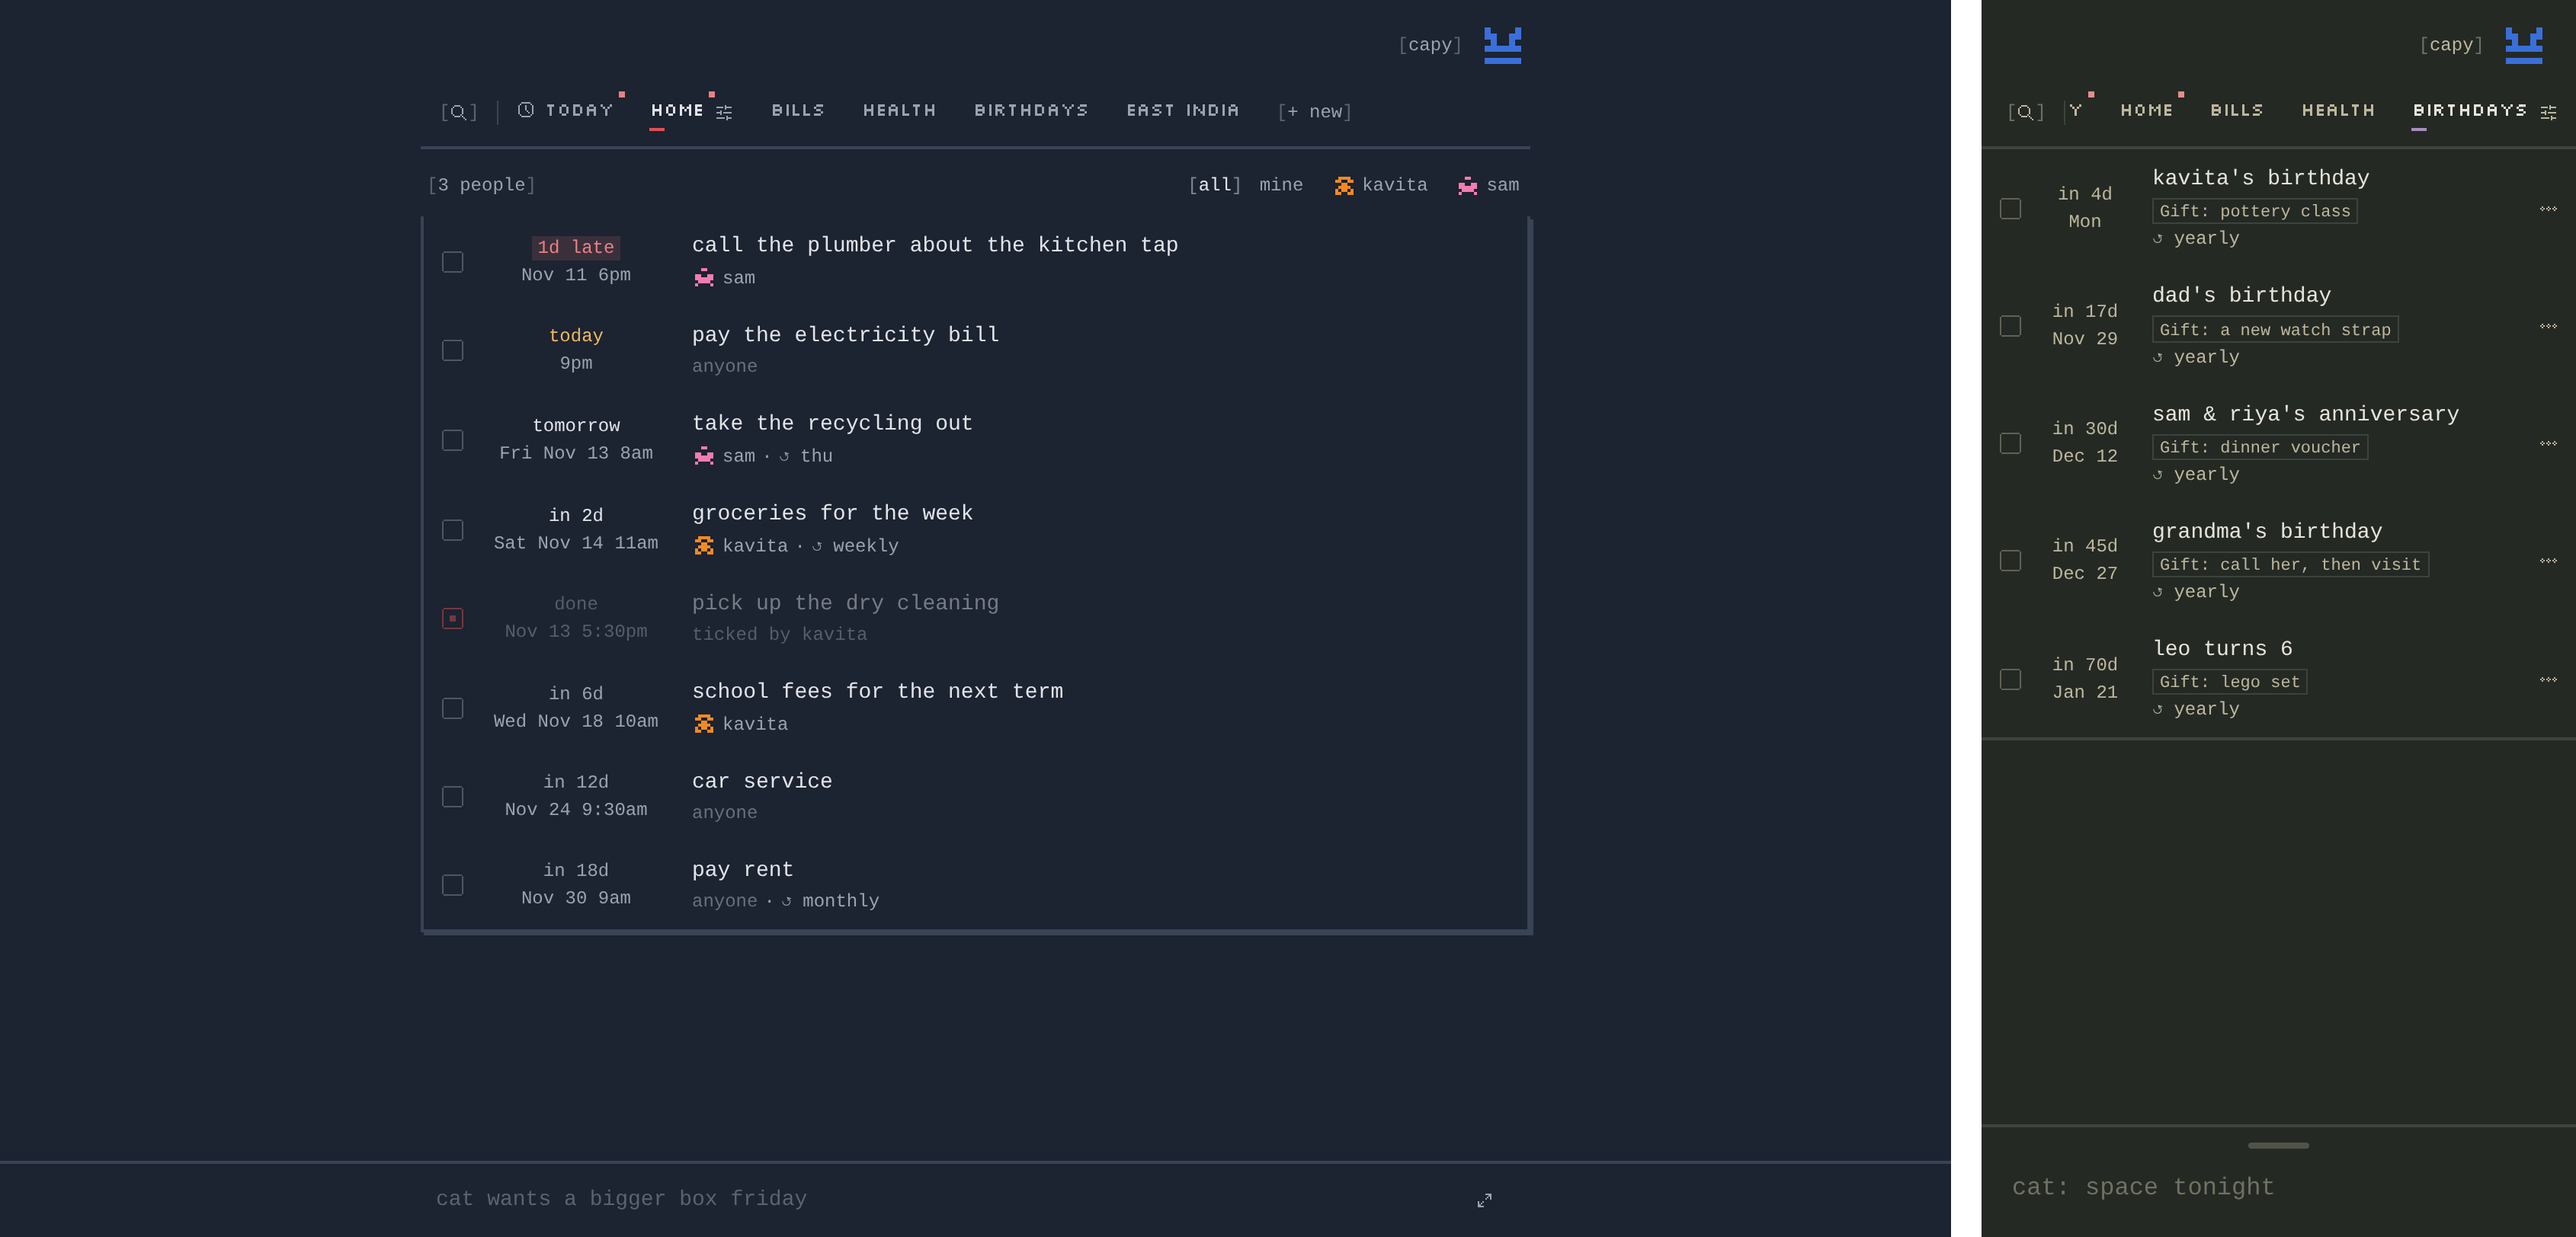
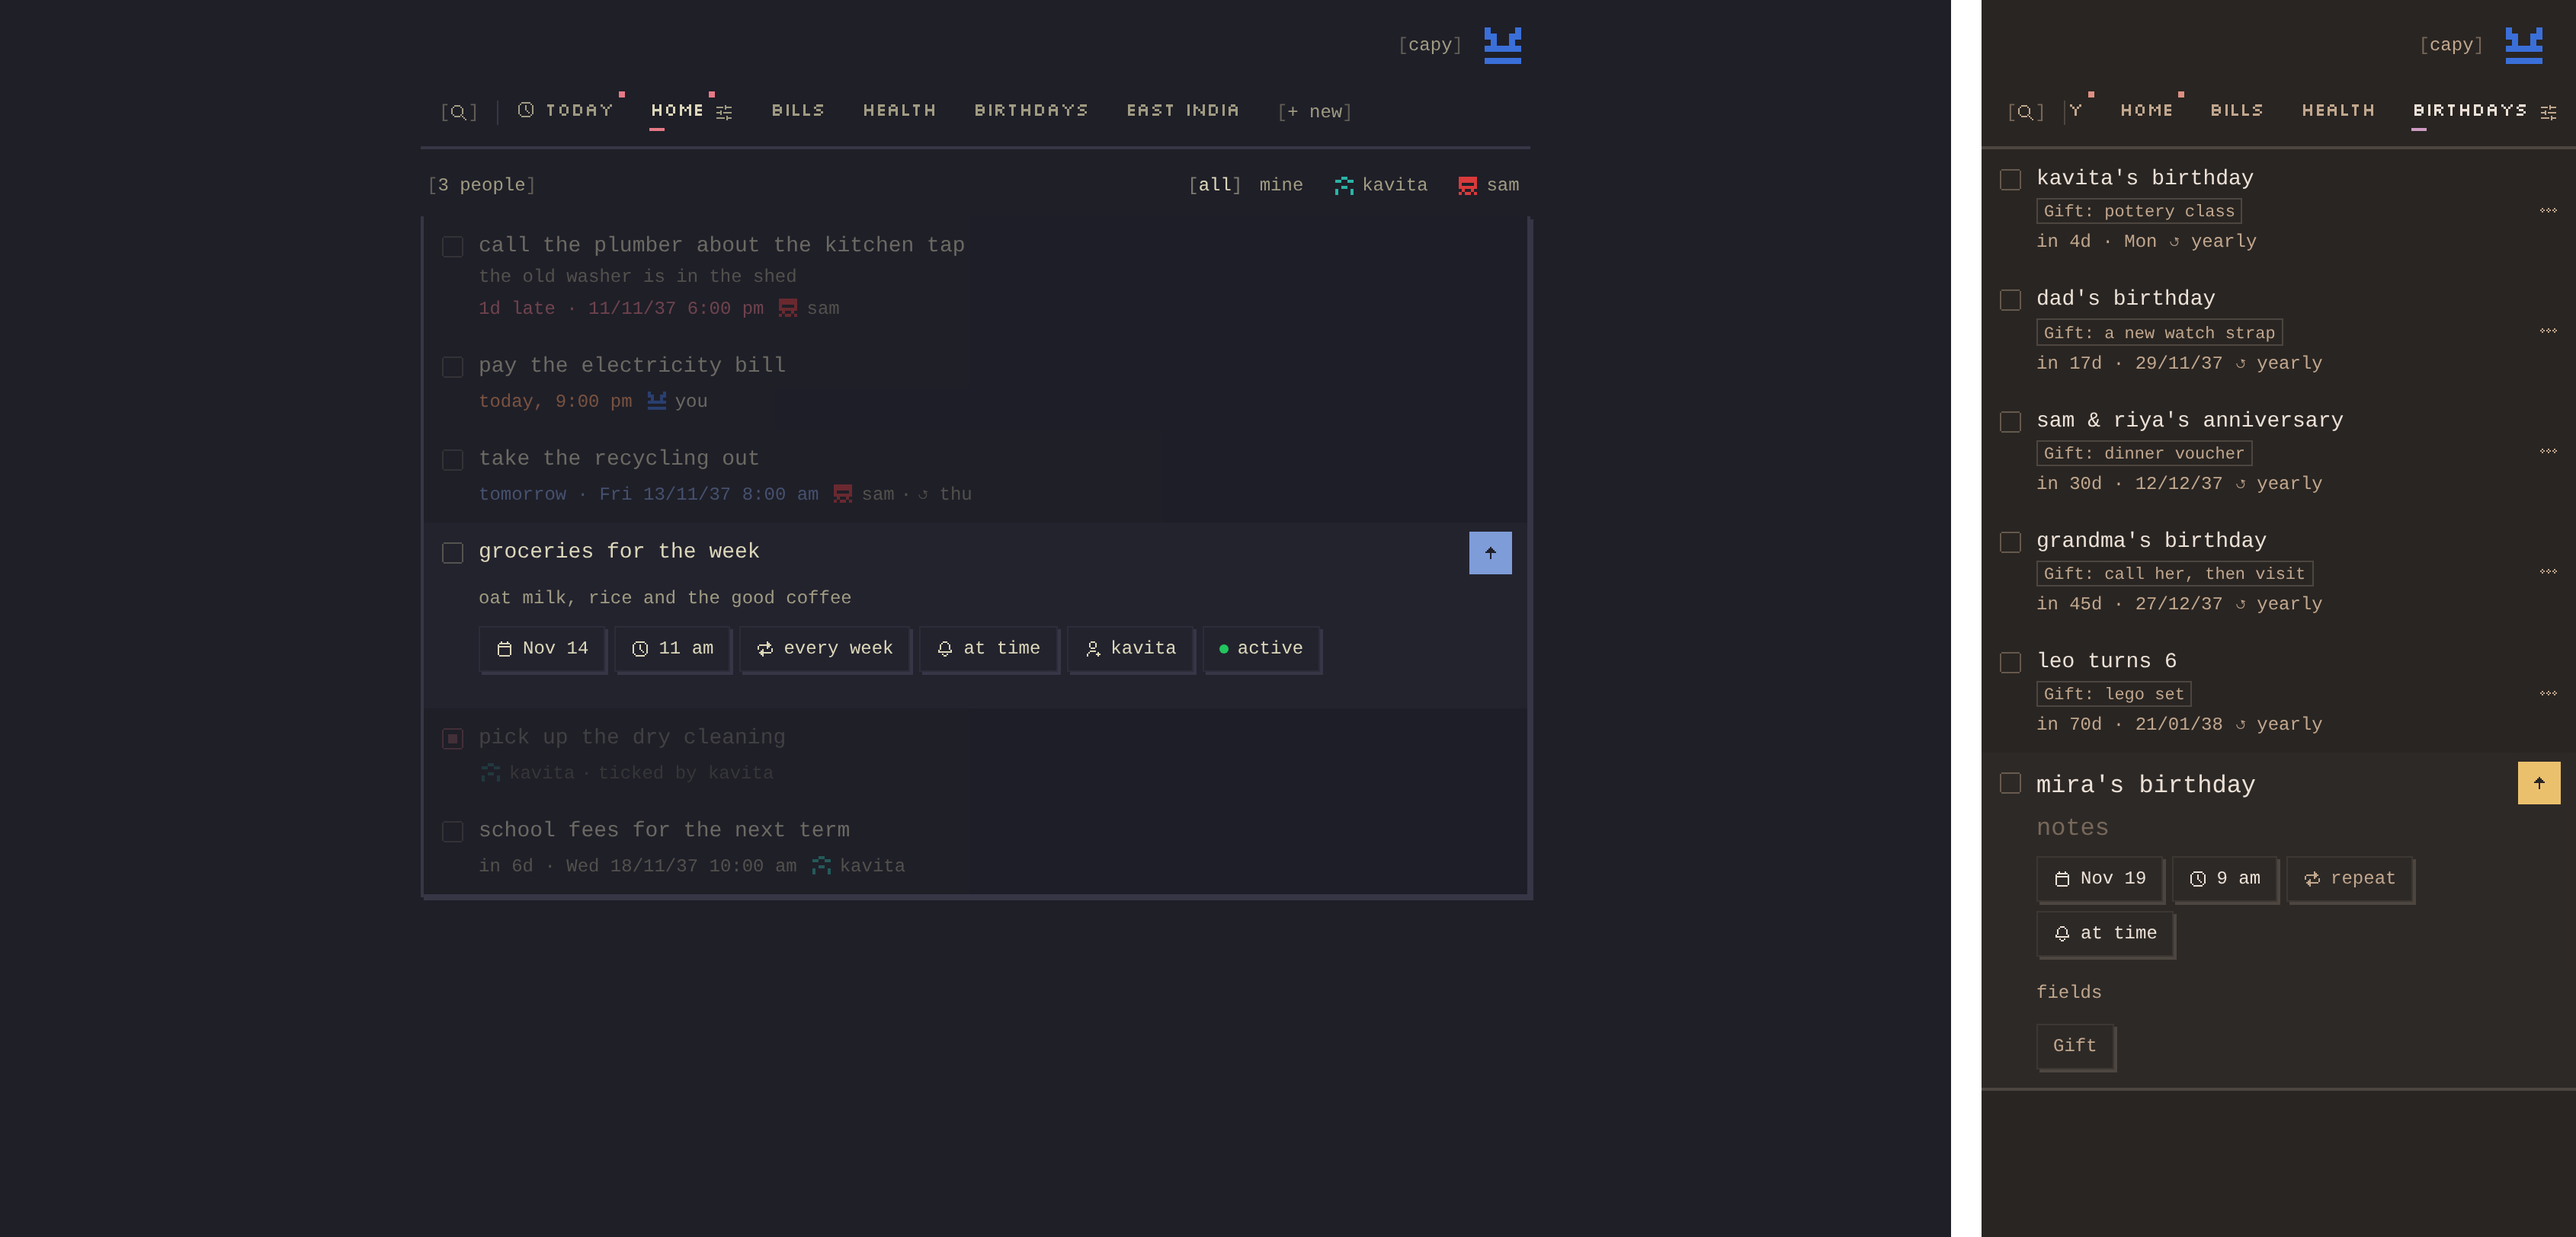
docs: readme gif and screenshots for the inline add and edit in 0.14.0

diff --git a/README.md b/README.md
@@ -31,15 +31,15 @@
 ## screenshots
 
 <p align="center">
-  <img src=".github/assets/demo.gif" width="900" alt="the same demo in two looks, one after the other: adding an item to a shared home bucket and ticking the electricity bill done, then one casual message to capy in the chat beside the list: it adds call grandma for sunday evening, moves the plumber call to 4pm and assigns it to kavita">
+  <img src=".github/assets/demo.gif" width="900" alt="the same demo in two looks and two themes (the modern look in melange, then the original look in kanagawa), one after the other: adding an item to a shared home bucket from the add button, editing another one in place (a new time and a note), ticking the electricity bill done, then one casual message to capy in the chat beside the list: it adds call grandma for sunday evening, moves the plumber call to 4pm and assigns it to kavita">
 </p>
 
 <p align="center">
-  <img src=".github/assets/screenshots/shared-home.png" width="900" alt="a home bucket shared with family, chores assigned to kavita and sam, done items saying who ticked them in the original look (tokyo night theme), next to a birthdays bucket with a gift idea for each on a phone (everforest theme)">
+  <img src=".github/assets/screenshots/trip-and-health.png" width="900" alt="a trip bucket for east india shared with kavita and sam, its own fields, a note on the homestay, items assigned to each of them and capy adding an activity for sam from chat, in the modern look (kanagawa light theme), next to a health bucket with daily vitamins, gym days and a dentist checkup with a note, in focus mode on a phone, just the bucket's name, its items and the add button (kanagawa theme)">
 </p>
 
 <p align="center">
-  <img src=".github/assets/screenshots/trip-and-health.png" width="900" alt="a trip bucket for east india shared with kavita and sam, with its own fields, items assigned to each of them and capy adding an activity for sam from chat, in the modern look (rosé pine theme), next to a health bucket with daily vitamins, gym days and a dentist checkup on a phone (catppuccin theme)">
+  <img src=".github/assets/screenshots/shared-home.png" width="900" alt="a home bucket shared with family, chores assigned to kavita and sam, one item open for editing in place with its notes, date, time, repeat, reminders and assignee, in the original look (kanagawa theme), next to a birthdays bucket with a gift field on each item on a phone, with a new birthday being added in its own row at the end of the list (melange theme)">
 </p>
 
 ## run it locally
